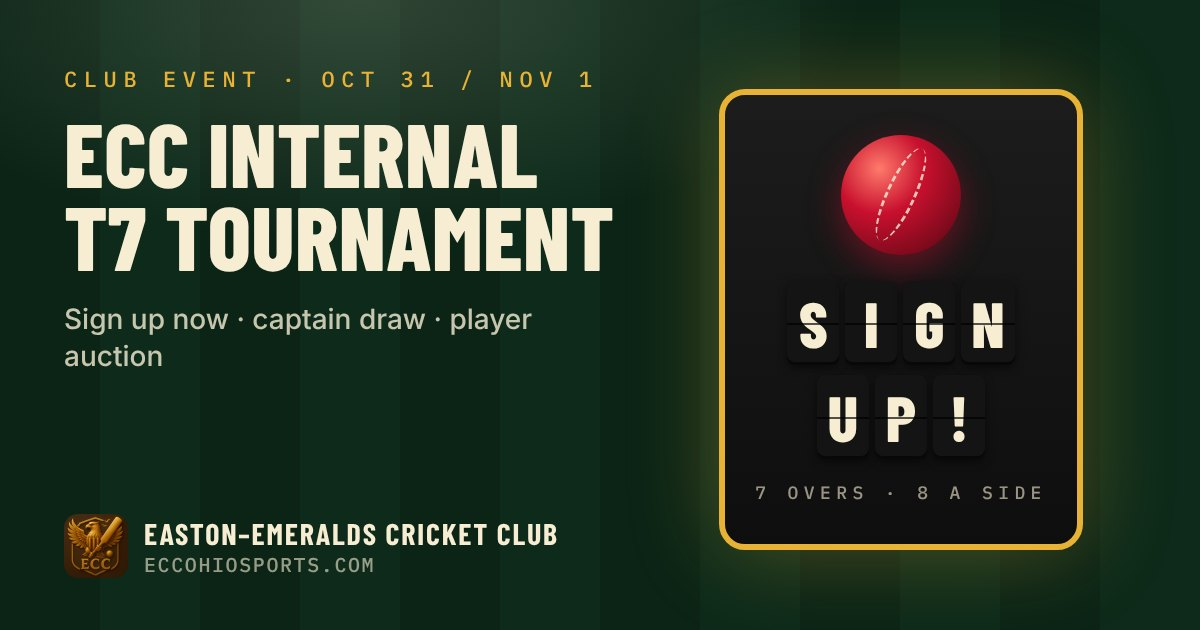
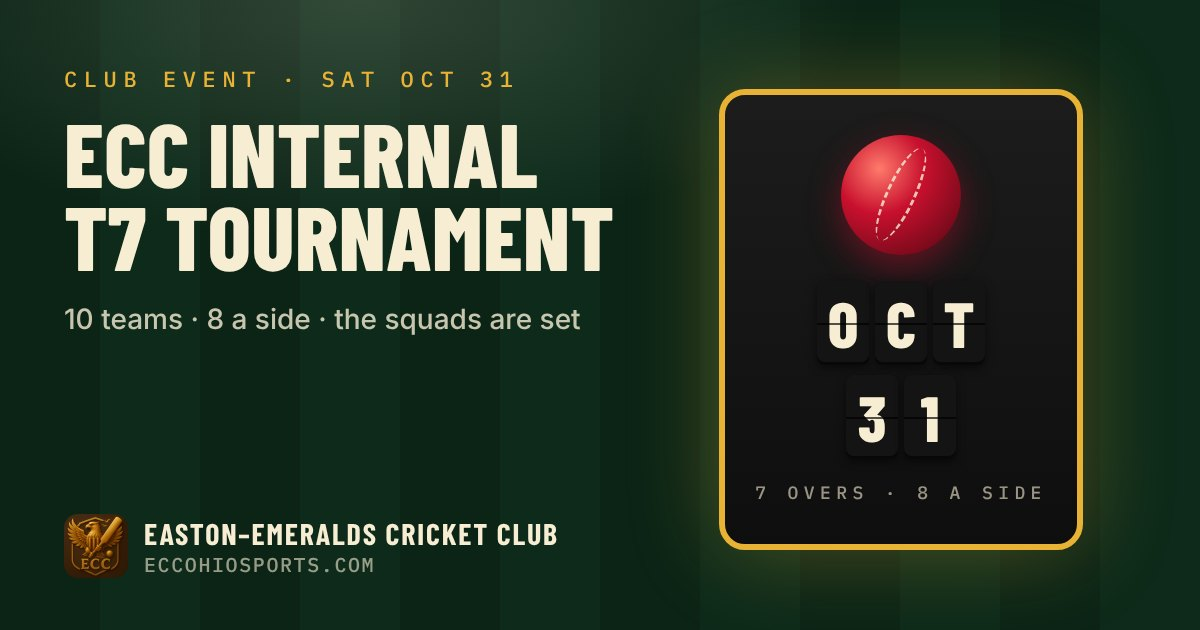
Internal T7 date confirmed: Saturday, Oct 31
Claude-Session: https://claude.ai/code/session_01C5FGfBoDUEW2zQ55n4sc3M

diff --git a/ecc-website/src/pages/InternalTournamentPage.jsx b/ecc-website/src/pages/InternalTournamentPage.jsx
@@ -617,7 +617,7 @@ export default function InternalTournamentPage() {
             <div className="lg:col-start-1 lg:row-start-2">
               <dl className="grid max-w-xl grid-cols-2 gap-3">
                 {[
-                  { value: "Oct 31", label: "Date", note: `or Sun Nov 1 · ${t.dateNote.toLowerCase()}` },
+                  { value: "Oct 31", label: "Date", note: "Saturday · confirmed" },
                   { value: t.format, label: "Format", note: "7 overs a side" },
                   {
                     value: t.playersPerTeam,

diff --git a/ecc-website/src/data/pageMeta.js b/ecc-website/src/data/pageMeta.js
@@ -17,8 +17,8 @@ export const pageMeta = {
     image: img("home"),
   },
   "/internal-tournament": {
-    title: "ECC Internal T7 Tournament · Sign up",
-    description: "Oct 31 / Nov 1 — sign up, nominate yourself for captain and get picked in the player auction.",
+    title: "ECC Internal T7 Tournament · Saturday, Oct 31",
+    description: "Saturday, Oct 31 — 10 teams of 8, picked in the player auction. See the squads.",
     image: img("internal-tournament"),
   },
   "/captain-draw": {

diff --git a/ecc-website/src/data/internalTournament.js b/ecc-website/src/data/internalTournament.js
@@ -9,8 +9,8 @@ export const internalTournament = {
   name: "ECC Internal T7 Tournament",
   shortName: "Internal Tournament",
   year: 2026,
-  dateLabel: "Sat Oct 31 or Sun Nov 1",
-  dateNote: "Final date to be confirmed",
+  dateLabel: "Saturday, Oct 31",
+  dateNote: "Confirmed",
   // Sign-ups close at this moment (Eastern time). The form switches off by itself.
   signupDeadline: "2026-10-26T21:00:00-04:00",
   signupDeadlineLabel: "9:00 PM tonight",
